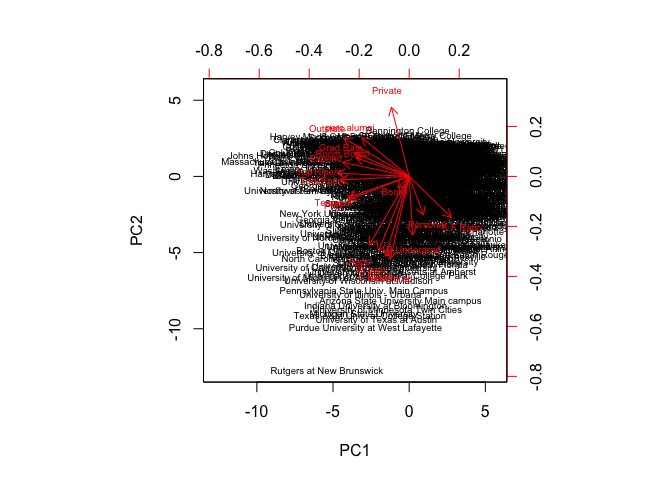
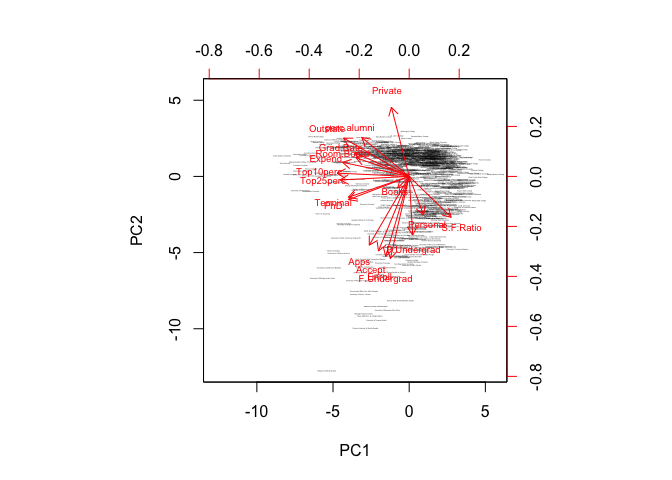
Working on Part 1

Changed region(s): [[0.3125, 0.25, 0.75, 0.6875], [0.4062, 0.75, 0.5625, 0.7812]]

diff --git a/students/Ochoa_Erin/PS9/ps9-emo.md b/students/Ochoa_Erin/PS9/ps9-emo.md
@@ -1,12 +1,122 @@
 MACS 30100 PS9
 ================
 Erin M. Ochoa
-2017 March 13
+2017 March 15
 
--   [Attitudes towards feminists \[3 points\]](#attitudes-towards-feminists-3-points)
+-   [Setup](#setup)
+-   [Attitudes towards feminists](#attitudes-towards-feminists)
+    -   [Split the data into a training and test set (70/30%)](#split-the-data-into-a-training-and-test-set-7030)
+    -   [Calculate the test MSE for KNN models with *K* = 5, 10, 15, …, 100, using whatever combination of variables you see fit. Which model produces the lowest test MSE?](#calculate-the-test-mse-for-knn-models-with-k-5-10-15-dots-100-using-whatever-combination-of-variables-you-see-fit.-which-model-produces-the-lowest-test-mse)
+    -   [Calculate the test MSE for weighted KNN models with *K* = 5, 10, 15, …, 100 using the same combination of variables as before. Which model produces the lowest test MSE?](#calculate-the-test-mse-for-weighted-knn-models-with-k-5-10-15-dots-100-using-the-same-combination-of-variables-as-before.-which-model-produces-the-lowest-test-mse)
+    -   [Compare the test MSE for the best KNN/wKNN model(s) to the test MSE for the equivalent linear regression, decision tree, boosting, and random forest methods using the same combination of variables as before. Which performs the best? Why do you think this method performed the best, given your knowledge of how it works?](#compare-the-test-mse-for-the-best-knnwknn-models-to-the-test-mse-for-the-equivalent-linear-regression-decision-tree-boosting-and-random-forest-methods-using-the-same-combination-of-variables-as-before.-which-performs-the-best-why-do-you-think-this-method-performed-the-best-given-your-knowledge-of-how-it-works)
 -   [Voter turnout and depression \[2 points\]](#voter-turnout-and-depression-2-points)
 -   [Colleges](#colleges)
 -   [Clustering states \[3 points\]](#clustering-states-3-points)
+
+Setup
+=====
+
+``` r
+knitr::opts_chunk$set(cache = TRUE)
+
+
+library(ggdendro)
+library(randomForest)
+```
+
+    ## randomForest 4.6-12
+
+    ## Type rfNews() to see new features/changes/bug fixes.
+
+``` r
+library(tidyverse)
+```
+
+    ## Loading tidyverse: ggplot2
+    ## Loading tidyverse: tibble
+    ## Loading tidyverse: tidyr
+    ## Loading tidyverse: readr
+    ## Loading tidyverse: purrr
+    ## Loading tidyverse: dplyr
+
+    ## Conflicts with tidy packages ----------------------------------------------
+
+    ## combine(): dplyr, randomForest
+    ## filter():  dplyr, stats
+    ## lag():     dplyr, stats
+    ## margin():  ggplot2, randomForest
+
+``` r
+library(forcats)
+library(broom)
+library(modelr)
+```
+
+    ## 
+    ## Attaching package: 'modelr'
+
+    ## The following object is masked from 'package:broom':
+    ## 
+    ##     bootstrap
+
+``` r
+library(stringr)
+library(grid)
+library(gridExtra)
+```
+
+    ## 
+    ## Attaching package: 'gridExtra'
+
+    ## The following object is masked from 'package:dplyr':
+    ## 
+    ##     combine
+
+    ## The following object is masked from 'package:randomForest':
+    ## 
+    ##     combine
+
+``` r
+#library(rcfss)   #not available for this version of R
+library(tree)
+library(e1071)
+library(gbm)
+```
+
+    ## Loading required package: survival
+
+    ## Loading required package: lattice
+
+    ## Loading required package: splines
+
+    ## Loading required package: parallel
+
+    ## Loaded gbm 2.1.1
+
+``` r
+library(pander)
+library(knitr)
+library(FNN)
+library(kknn)
+library(pROC)
+```
+
+    ## Type 'citation("pROC")' for a citation.
+
+    ## 
+    ## Attaching package: 'pROC'
+
+    ## The following objects are masked from 'package:stats':
+    ## 
+    ##     cov, smooth, var
+
+``` r
+library(ISLR)
+
+options(digits = 3)
+set.seed(1234)
+theme_set(theme_minimal())
+```
 
 ``` r
 mse = function(model, data) {
@@ -15,10 +125,16 @@ mse = function(model, data) {
 }
 ```
 
+Attitudes towards feminists
+===========================
+
+Split the data into a training and test set (70/30%)
+----------------------------------------------------
+
 We read in the data:
 
 ``` r
-df = read.csv('data/feminist.csv')
+fem = read.csv('data/feminist.csv')
 ```
 
 Next, we split the dataset into training and validation sets in a ratio of 7:3:
@@ -26,17 +142,35 @@ Next, we split the dataset into training and validation sets in a ratio of 7:3:
 ``` r
 set.seed(1234)
 
-fem_split7030 = resample_partition(df, c(test = 0.3, train = 0.7))
+fem_split7030 = resample_partition(fem, c(test = 0.3, train = 0.7))
 fem_train70 = fem_split7030$train %>%
               tbl_df()
 fem_test30 = fem_split7030$test %>%
              tbl_df()
 ```
 
-Attitudes towards feminists \[3 points\]
-========================================
+Calculate the test MSE for KNN models with *K* = 5, 10, 15, …, 100, using whatever combination of variables you see fit. Which model produces the lowest test MSE?
+------------------------------------------------------------------------------------------------------------------------------------------------------------------
 
-![](https://tbmwomenintheworld2016.files.wordpress.com/2016/11/rtx2pdge.jpg?w=800)
+Using female, education, income, Democrat, and Republican, we calculate the test MSE for KNN models with K ranging from \[5,100\] in 5-point increments:
+
+``` r
+fem_knn = data_frame(k = seq(5, 100, by = 5), 
+                     knn = map(k, ~ knn.reg(select(fem_train70, -feminist, -age),
+                                            y = fem_train70$feminist,
+                                            test = select(fem_test30, -feminist, -age), k = .)), 
+                     mse = map_dbl(knn, ~ mean((fem_test30$feminist - .$pred)^2))) 
+```
+
+The models with K=35, K=40, and K=50 produce the lowest MSE (440.547). Next, we plot the MSE for each model:
+
+![](ps9-emo_files/figure-markdown_github/fem_knn_plot-1.png)
+
+Calculate the test MSE for weighted KNN models with *K* = 5, 10, 15, …, 100 using the same combination of variables as before. Which model produces the lowest test MSE?
+------------------------------------------------------------------------------------------------------------------------------------------------------------------------
+
+Compare the test MSE for the best KNN/wKNN model(s) to the test MSE for the equivalent linear regression, decision tree, boosting, and random forest methods using the same combination of variables as before. Which performs the best? Why do you think this method performed the best, given your knowledge of how it works?
+-------------------------------------------------------------------------------------------------------------------------------------------------------------------------------------------------------------------------------------------------------------------------------------------------------------------------------
 
 `feminist.csv` contains a selection of variables from the [2008 American National Election Studies survey](http://www.electionstudies.org/) that allow you to test competing factors that may influence attitudes towards feminists. The variables are coded as follows:
 
@@ -129,73 +263,65 @@ The `College` dataset in the `ISLR` library contains statistics for a large numb
 
 Perform PCA analysis on the college dataset and plot the first two principal components. Describe the results. What variables appear strongly correlated on the first principal component? What about the second principal component?
 
+We assign the dataframe (imported via the ISLR library) to a new object and recode the Private variable to be numeric:
+
 ``` r
 college = College
 college$Private = as.numeric(college$Private)
 ```
 
+Next, we perform principal component analysis and view the loadings for the first two components:
+
 ``` r
 college_pca = prcomp(college, scale = TRUE)
-college_pca$rotation
+college_pca_1_2 = as.data.frame(college_pca$rotation)[1:2]
+college_pca_1_2
 ```
 
-    ##                 PC1     PC2      PC3     PC4     PC5      PC6       PC7
-    ## Private     -0.0890  0.3459 -0.15139 -0.2311  0.0443 -0.03145  0.178345
-    ## Apps        -0.1996 -0.3436 -0.00482 -0.3050 -0.0230 -0.00862 -0.061047
-    ## Accept      -0.1538 -0.3726  0.02535 -0.3175  0.0314  0.01307 -0.015474
-    ## Enroll      -0.1178 -0.3997  0.02758 -0.2048 -0.0657 -0.04306 -0.008237
-    ## Top10perc   -0.3603  0.0162 -0.00468  0.1075 -0.3882 -0.05992 -0.144406
-    ## Top25perc   -0.3448 -0.0177  0.05895  0.1463 -0.4098  0.02061 -0.079889
-    ## F.Undergrad -0.0941 -0.4107  0.01681 -0.1430 -0.0466 -0.04574  0.000282
-    ## P.Undergrad  0.0175 -0.2931 -0.14937  0.0978  0.3280 -0.19678  0.162965
-    ## Outstate    -0.3277  0.1915 -0.06636 -0.1288  0.2033 -0.02030  0.094948
-    ## Room.Board  -0.2665  0.0940 -0.18211 -0.1824  0.5263  0.18303  0.145142
-    ## Books       -0.0572 -0.0573 -0.66231  0.0893 -0.1586  0.64831 -0.141371
-    ## Personal     0.0719 -0.1928 -0.46956  0.2906 -0.1880 -0.34706  0.609167
-    ## PhD         -0.3033 -0.1162  0.20849  0.4646  0.2059  0.07189  0.031347
-    ## Terminal    -0.3039 -0.1042  0.14672  0.4604  0.2656  0.13832  0.003847
-    ## S.F.Ratio    0.2103 -0.2044  0.29225  0.0749 -0.0515  0.46937  0.275797
-    ## perc.alumni -0.2367  0.1941  0.15944 -0.0100 -0.2151 -0.05166  0.286361
-    ## Expend      -0.3330  0.0703 -0.21732 -0.0072  0.0571 -0.28447 -0.280168
-    ## Grad.Rate   -0.2731  0.1178  0.17262 -0.2682 -0.1412  0.22185  0.501653
-    ##                  PC8     PC9    PC10    PC11     PC12    PC13      PC14
-    ## Private     -0.03231  0.0850 -0.2596  0.6798 -0.24569  0.4006 -1.01e-02
-    ## Apps         0.09918 -0.0841 -0.0581 -0.0104 -0.04181  0.0374  5.95e-01
-    ## Accept       0.05423 -0.1653 -0.0895  0.1426 -0.00455 -0.0736  2.93e-01
-    ## Enroll      -0.06326 -0.1168 -0.0741  0.1058  0.03426  0.0591 -4.46e-01
-    ## Top10perc    0.09714  0.3557 -0.0594 -0.0221  0.01518  0.0444  9.19e-05
-    ## Top25perc    0.07806  0.4224 -0.0436  0.1382  0.23123 -0.0998  2.38e-02
-    ## F.Undergrad -0.08393 -0.0498 -0.0504  0.0784  0.06250  0.0697 -5.25e-01
-    ## P.Undergrad -0.56989  0.5432  0.2295  0.0451 -0.12114 -0.0228  1.26e-01
-    ## Outstate     0.00412 -0.0114 -0.1973  0.0643 -0.25544 -0.8037 -1.28e-01
-    ## Room.Board   0.24867  0.2442 -0.1899 -0.2808  0.48583  0.2014 -7.23e-02
-    ## Books       -0.22503 -0.1333  0.0758  0.0204 -0.03719 -0.0249  1.18e-02
-    ## Personal     0.30143 -0.1216 -0.1169 -0.0468  0.02038 -0.0379  4.01e-02
-    ## PhD          0.07055 -0.1629  0.0560  0.1705 -0.09081  0.1172  1.25e-01
-    ## Terminal     0.00463 -0.2332  0.0212  0.1784  0.01067  0.0544 -5.91e-02
-    ## S.F.Ratio    0.09450  0.2845 -0.4477 -0.2162 -0.42475  0.0584 -1.92e-02
-    ## perc.alumni -0.64039 -0.2905 -0.3463 -0.2600  0.21823  0.0916  1.03e-01
-    ## Expend       0.03757 -0.0562 -0.0330 -0.4550 -0.54829  0.2993 -9.86e-02
-    ## Grad.Rate    0.07773 -0.0226  0.6600 -0.1031 -0.15593  0.0729 -7.00e-02
-    ##                PC15     PC16      PC17      PC18
-    ## Private     -0.0232 -0.00537 -0.044796  0.007795
-    ## Apps        -0.0807  0.13375 -0.458603  0.363283
-    ## Accept      -0.0333 -0.14635  0.512188 -0.547462
-    ## Enroll       0.0815  0.02848  0.403907  0.607174
-    ## Top10perc    0.1062  0.69742  0.148018 -0.146308
-    ## Top25perc   -0.1487 -0.61690 -0.050194  0.080606
-    ## F.Undergrad  0.0534  0.00984 -0.569725 -0.408938
-    ## P.Undergrad -0.0196  0.02068  0.050648  0.008963
-    ## Outstate     0.0572  0.04195 -0.078622  0.048023
-    ## Room.Board   0.0560  0.00351  0.028890  0.000368
-    ## Books        0.0677 -0.00927 -0.001728  0.000603
-    ## Personal    -0.0266 -0.00304  0.012911 -0.001211
-    ## PhD          0.6864 -0.11269 -0.035842  0.015128
-    ## Terminal    -0.6746  0.15786  0.020277  0.007143
-    ## S.F.Ratio   -0.0449 -0.02172  0.014827 -0.001297
-    ## perc.alumni  0.0268 -0.00815 -0.000483 -0.019705
-    ## Expend      -0.0809 -0.22876  0.038317 -0.034863
-    ## Grad.Rate   -0.0372 -0.00327  0.006996 -0.013507
+    ##                 PC1     PC2
+    ## Private     -0.0890  0.3459
+    ## Apps        -0.1996 -0.3436
+    ## Accept      -0.1538 -0.3726
+    ## Enroll      -0.1178 -0.3997
+    ## Top10perc   -0.3603  0.0162
+    ## Top25perc   -0.3448 -0.0177
+    ## F.Undergrad -0.0941 -0.4107
+    ## P.Undergrad  0.0175 -0.2931
+    ## Outstate    -0.3277  0.1915
+    ## Room.Board  -0.2665  0.0940
+    ## Books       -0.0572 -0.0573
+    ## Personal     0.0719 -0.1928
+    ## PhD         -0.3033 -0.1162
+    ## Terminal    -0.3039 -0.1042
+    ## S.F.Ratio    0.2103 -0.2044
+    ## perc.alumni -0.2367  0.1941
+    ## Expend      -0.3330  0.0703
+    ## Grad.Rate   -0.2731  0.1178
+
+Because
+
+For the first component, Top10perc and Top25perc load very negatively, suggesting that schools with high scores for PC1 will have low proportions of students in the top 10% or top 25% of their high-school classes. Similarly, Outstate, Expend, PhD, and Terminal also load very negatively, indicating that schools with high scores for PC1 will have high proportions of in-state students, low per-student expenditure, and low proportions of faculty with PhDs or terminal degrees.
+
+For the second component, F.Undergrad loads highly negatively, suggesting that schools with high scores for PC2 will have low enrollment of full-time undergraduates. Private loads positively, suggesting that schools with high scores for this component will tend to be private. Enroll, Accept, and Apps load very negatively; schools with high scores for PC2 should enroll few new students, accept few applications, and receive few applications.
+
+-   `Private` - A factor with levels `No` and `Yes` indicating private or public university.
+-   `Apps` - Number of applications received.
+-   `Accept` - Number of applications accepted.
+-   `Enroll` - Number of new students enrolled.
+-   `Top10perc` - Percent of new students from top 10% of H.S. class.
+-   `Top25perc` - Percent of new students from top 25% of H.S. class.
+-   `F.Undergrad` - Number of fulltime undergraduates.
+-   `P.Undergrad` - Number of parttime undergraduates.
+-   `Outstate` - Out-of-state tuition.
+-   `Room.Board` - Room and board costs.
+-   `Books` - Estimated book costs.
+-   `Personal` - Estimated personal spending.
+-   `PhD` - Percent of faculty with Ph.D.'s.
+-   `Terminal` - Percent of faculty with terminal degrees.
+-   `S.F.Ratio` - Student/faculty ratio.
+-   `perc.alumni` - Percent of alumni who donate.
+-   `Expend` - Instructional expenditure per student.
+-   `Grad.Rate` - Graduation rate.
 
 ![](ps9-emo_files/figure-markdown_github/college_biplot-1.png)
 
